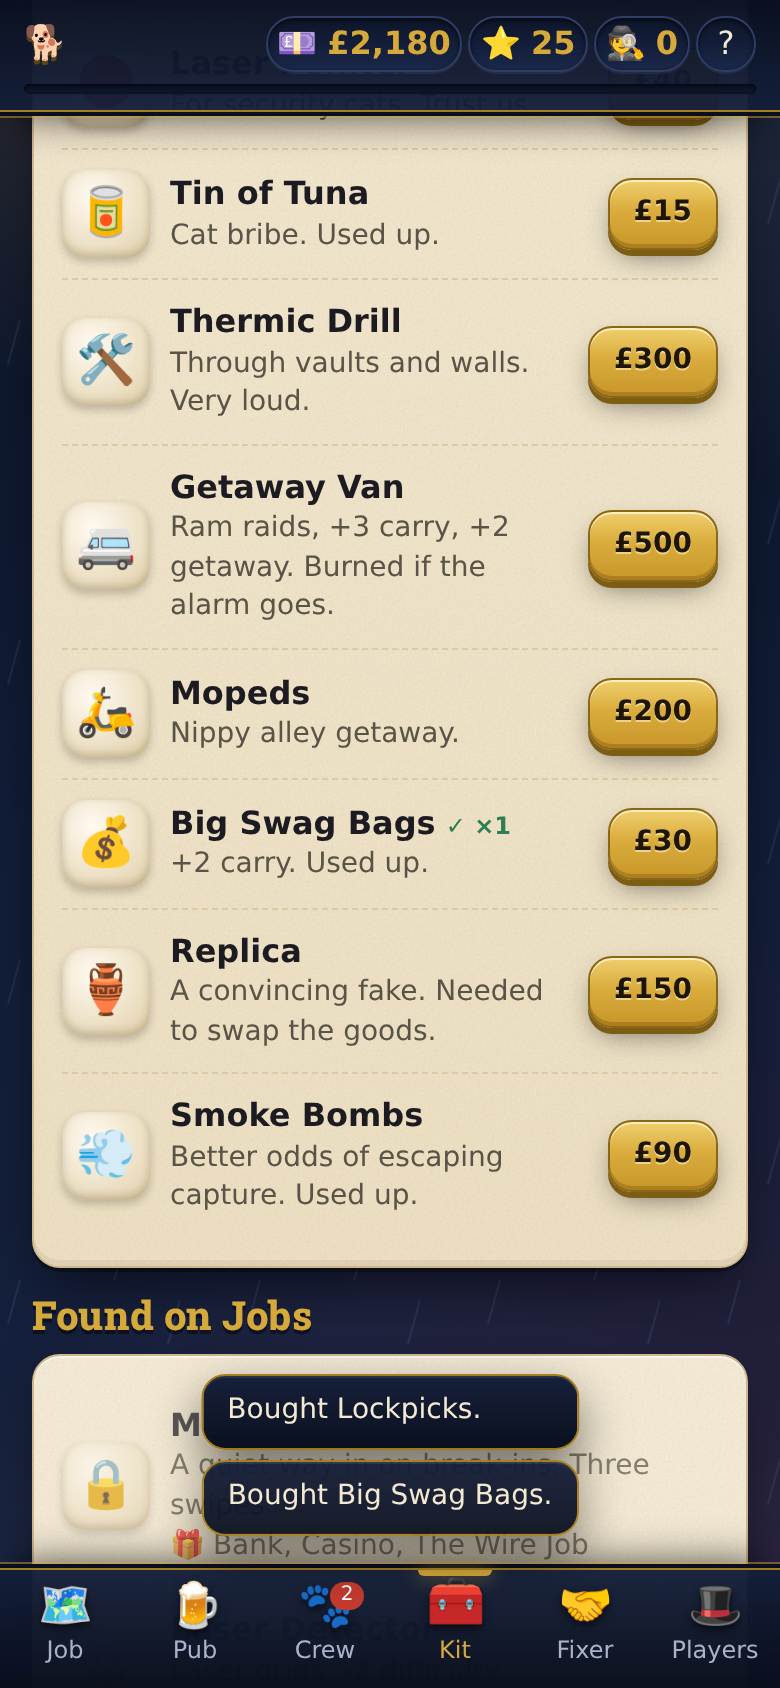
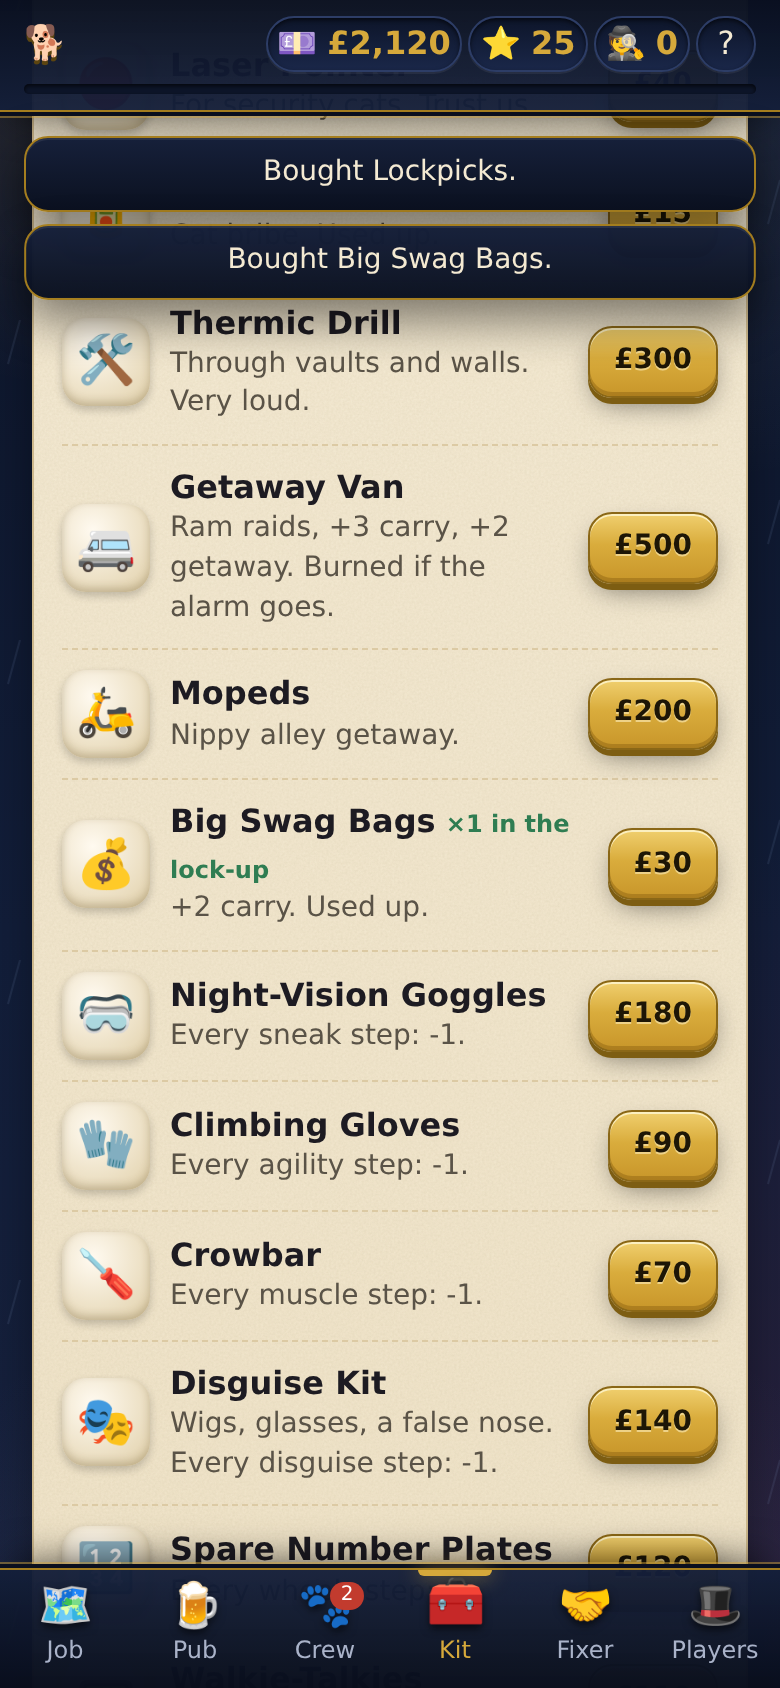
New kit, a lock-up section, and gear that breaks or ends up in evidence
Seven new pieces of kit that each ease a kind of step. The shop lists
what's for sale, then what's in your lock-up, then special kit still to
find. Bought kit that isn't used up can break on a fumbled step (30%) and
is lost with anyone collared (50%); the aftermath says what went.

Claude-Session: https://claude.ai/code/session_0119DQBJUjuLkFW8ZZge45qz

diff --git a/src/data.js b/src/data.js
@@ -352,19 +352,27 @@ export const CODENAMES = ['Mr White', 'Mr Orange', 'Mr Blonde', 'Mr Brown', 'Mr 
 // Kit: bonus = +difficulty relief when the approach lists it; consumable kit is
 // used up when the step runs.
 export const KIT = {
-  lockpicks: { name: 'Lockpicks', price: 80, icon: '🗝', consumable: false, blurb: '+2 on lock work.' },
-  stethoscope: { name: 'Stethoscope', price: 120, icon: '🩺', consumable: false, blurb: '+2 cracking safes by ear.' },
-  laptop: { name: 'Hacker Laptop', price: 250, icon: '💻', consumable: false, blurb: '+2 on cameras and keypads.' },
-  grapple: { name: 'Grappling Rope', price: 100, icon: '🪝', consumable: false, blurb: 'Needed for skylights and roof escapes.' },
+  lockpicks: { name: 'Lockpicks', price: 80, icon: '🗝', consumable: false, blurb: '+2 on lock work.', breaks: 'snap off in the lock' },
+  stethoscope: { name: 'Stethoscope', price: 120, icon: '🩺', consumable: false, blurb: '+2 cracking safes by ear.', breaks: 'gets trodden on' },
+  laptop: { name: 'Hacker Laptop', price: 250, icon: '💻', consumable: false, blurb: '+2 on cameras and keypads.', breaks: 'shows a blue screen and a sad face, for good' },
+  grapple: { name: 'Grappling Rope', price: 100, icon: '🪝', consumable: false, blurb: 'Needed for skylights and roof escapes.', breaks: 'frays clean through' },
   uniforms: { name: 'Staff Uniforms', price: 150, icon: '👔', consumable: true, blurb: 'Needed to pose as staff. Used up.' },
-  slingshot: { name: 'Slingshot', price: 60, icon: '🎯', consumable: false, blurb: '+2 popping camera lenses.' },
+  slingshot: { name: 'Slingshot', price: 60, icon: '🎯', consumable: false, blurb: '+2 popping camera lenses.', breaks: 'twangs in half' },
   squeaky: { name: 'Squeaky Toy', price: 20, icon: '🧸', consumable: true, blurb: 'Guards can\'t resist. Used up.' },
-  laserpointer: { name: 'Laser Pointer', price: 40, icon: '🔴', consumable: false, blurb: 'For security cats. Trust us.' },
+  laserpointer: { name: 'Laser Pointer', price: 40, icon: '🔴', consumable: false, blurb: 'For security cats. Trust us.', breaks: 'gets swatted into a drain' },
   tuna: { name: 'Tin of Tuna', price: 15, icon: '🥫', consumable: true, blurb: 'Cat bribe. Used up.' },
-  drill: { name: 'Thermic Drill', price: 300, icon: '🛠', consumable: false, blurb: 'Through vaults and walls. Very loud.' },
-  van: { name: 'Getaway Van', price: 500, icon: '🚐', consumable: false, blurb: 'Ram raids, +3 carry, +2 getaway. Burned if the alarm goes.' },
-  moped: { name: 'Mopeds', price: 200, icon: '🛵', consumable: false, blurb: 'Nippy alley getaway.' },
+  drill: { name: 'Thermic Drill', price: 300, icon: '🛠', consumable: false, blurb: 'Through vaults and walls. Very loud.', breaks: 'burns out in a cloud of smoke' },
+  van: { name: 'Getaway Van', price: 500, icon: '🚐', consumable: false, blurb: 'Ram raids, +3 carry, +2 getaway. Burned if the alarm goes.', breaks: 'ends up on its roof' },
+  moped: { name: 'Mopeds', price: 200, icon: '🛵', consumable: false, blurb: 'Nippy alley getaway.', breaks: 'end up in a hedge' },
   bags: { name: 'Big Swag Bags', price: 30, icon: '💰', consumable: true, blurb: '+2 carry. Used up.' },
+  // Gear that makes a whole kind of step a little easier (`effect`, as for special kit).
+  goggles: { name: 'Night-Vision Goggles', price: 180, icon: '🥽', consumable: false, effect: { skill: 'sneak', diff: -1 }, blurb: 'Every sneak step: -1.', breaks: 'get sat on' },
+  gloves: { name: 'Climbing Gloves', price: 90, icon: '🧤', consumable: false, effect: { skill: 'agility', diff: -1 }, blurb: 'Every agility step: -1.', breaks: 'tear on a gutter' },
+  crowbar: { name: 'Crowbar', price: 70, icon: '🪛', consumable: false, effect: { skill: 'muscle', diff: -1 }, blurb: 'Every muscle step: -1.', breaks: 'bends double' },
+  disguisekit: { name: 'Disguise Kit', price: 140, icon: '🎭', consumable: false, effect: { skill: 'disguise', diff: -1 }, blurb: 'Wigs, glasses, a false nose. Every disguise step: -1.', breaks: 'loses its false nose down a drain' },
+  plates: { name: 'Spare Number Plates', price: 120, icon: '🔢', consumable: false, effect: { skill: 'wheels', diff: -1 }, blurb: 'Every wheels step: -1.', breaks: 'fall off at the lights' },
+  walkies: { name: 'Walkie-Talkies', price: 110, icon: '📟', consumable: false, effect: { kind: 'exit', diff: -1 }, blurb: '"Over." Getting out: -1.', breaks: 'go to static' },
+  chocs: { name: 'Box of Chocolates', price: 35, icon: '🍫', consumable: true, effect: { skill: 'charm', diff: -2 }, blurb: 'Charm: -2 on one step. Then they\'re eaten.' },
   // ---- Special kit: never for sale. Won on particular jobs (`from`: venues or kinds of
   // job) and kept for later ones. `effect` makes matching steps easier.
   keycard: { name: 'Master Key Card', icon: '💳', price: 0, special: true, consumable: true, uses: 3, from: ['bank', 'casino', 'hack'], blurb: 'A quiet way in on break-ins. Three swipes.' },

diff --git a/src/sim.js b/src/sim.js
@@ -138,6 +138,11 @@ function carryCapacity(crew, kit) {
   return c;
 }
 
+// Chance a piece of kit breaks when the step it's used on goes wrong, and that the
+// Old Bill bag it as evidence when whoever was carrying it is collared.
+export const KIT_BREAK = 0.3;
+export const KIT_EVIDENCE = 0.5;
+
 // Stages on the way out, where a fumble gets dogs nicked rather than just noticed.
 const OUT = ['exit', 'getaway'];
 // Fumbling these can cost a dog for good.
@@ -209,6 +214,8 @@ export function simulate(state, job, rng) {
     dropped: [],
     kitLeft: { ...state.kit },
     kitUsed: {},
+    kitLost: [], // { kit, why: 'broke' | 'evidence' }
+    carried: {}, // dog id -> kit they used tonight (bagged as evidence if they're collared)
     luckUsed: new Set(),
     lookoutUsed: false,
     nextBonus: 0,
@@ -242,6 +249,12 @@ export function simulate(state, job, rng) {
   const useKit = (id) => {
     ctx.kitLeft[id]--;
     ctx.kitUsed[id] = (ctx.kitUsed[id] || 0) + 1;
+  };
+  // Bought kit that isn't used up wears out: it can break on a fumbled step, and
+  // whoever gets collared loses what they were carrying.
+  const loseKit = (k, why) => {
+    useKit(k);
+    ctx.kitLost.push({ kit: k, why });
   };
   const lootName = (id) => lootItem(job, id).name;
 
@@ -279,8 +292,13 @@ export function simulate(state, job, rng) {
     const has = (q) => dog.quirks.includes(q);
     if (a.needKit && KIT[a.needKit].consumable) useKit(a.needKit);
     ctx.acted.add(dog.id);
+    // The kit this step is done with: what it needs, what helps it, and gear that eases this kind of step.
+    const gear = [...new Set([a.needKit, a.kitBonus, ...specialKitFor(ctx.kitLeft, job, stage, a)])].filter((k) => k && ctx.kitLeft[k] > 0);
     const o = odds(state, job, stage, approachId, dog, { alarm: ctx.alarm, crew: active(), kitLeft: ctx.kitLeft, extra: (extra || 0) + (ctx.coppers ? 2 : 0), bonus: ctx.nextBonus });
     ctx.nextBonus = 0;
+    for (const k of gear) if (KIT[k].consumable && KIT[k].effect) useKit(k); // the chocolates get eaten
+    const wears = gear.filter((k) => !KIT[k].consumable && !KIT[k].special);
+    if (wears.length) ctx.carried[dog.id] = [...new Set([...(ctx.carried[dog.id] || []), ...wears])];
     let p = o.p;
     if (tag === 'improv' && dog.role?.kind === 'wildcard') p = clamp(p + 0.05 * dog.role.level, 0.03, 0.97); // made for making it up
     if (tag === 'improv' && has('backup')) { p = clamp(p + 0.15, 0.03, 0.97); learn(dog, 'quirks', 'backup'); }
@@ -342,6 +360,13 @@ export function simulate(state, job, rng) {
       (ctx.practised[dog.id] ||= []).push(a.skill);
     } else ctx.lastFail = { dog, approachId, margin: roll - p };
     beat({ kind: ok ? 'ok' : 'fail', stage: stage.id, dog: dog.id, approach: approachId, tag, p, roll, text, line });
+    if (!ok) {
+      for (const k of wears) {
+        if (!(ctx.kitLeft[k] > 0) || !rng.chance(KIT_BREAK)) continue;
+        loseKit(k, 'broke');
+        beat({ kind: 'chaos', stage: stage.id, dog: dog.id, text: `${KIT[k].icon} The ${KIT[k].name.toLowerCase()} ${KIT[k].breaks}.` });
+      }
+    }
     addAlarm(noise, stage.id);
     return ok;
   };
@@ -421,6 +446,7 @@ export function simulate(state, job, rng) {
       return true;
     }
     ctx.captured.push({ id: dog.id, stage: stageId });
+    for (const k of ctx.carried[dog.id] || []) if (ctx.kitLeft[k] > 0 && rng.chance(KIT_EVIDENCE)) loseKit(k, 'evidence');
     beat({ kind: 'caught', stage: stageId, dog: dog.id, text: `${shortName(dog)} is collared by the Old Bill!`, line: say(dog, 'caught') });
     dropLoot(stageId, 'goes with them into the police van');
     return rescue(dog, stageId);
@@ -796,6 +822,7 @@ export function simulate(state, job, rng) {
     rescues: ctx.rescues,
     crew: crewIds,
     kitUsed: ctx.kitUsed,
+    kitLost: ctx.kitLost,
     learned: ctx.learned,
     practised: ctx.practised,
     heatGain,
@@ -811,7 +838,7 @@ function skillTalent(t, skill) {
 export function blankResult(crew, extra = {}) {
   return {
     beats: [], outcome: 'clean', secured: [], dropped: [], alarmMax: 0, clues: 0, coppers: false, pearShaped: false, aborted: false, swap: false,
-    captured: [], rescues: [], lost: [], hurt: [], runners: [], exposed: [], tipped: [], escaped: crew.slice(), crew: crew.slice(), kitUsed: {}, learned: {}, practised: {}, heatGain: 0,
+    captured: [], rescues: [], lost: [], hurt: [], runners: [], exposed: [], tipped: [], escaped: crew.slice(), crew: crew.slice(), kitUsed: {}, kitLost: [], learned: {}, practised: {}, heatGain: 0,
     ...extra,
   };
 }

diff --git a/src/ui.js b/src/ui.js
@@ -499,19 +499,24 @@ const fromText = (k) => k.from.map((f) => VENUE_LABELS[f] || JOB_TYPES[f]?.label
 
 function kitScreen(G) {
   const s = G.state;
-  const specials = Object.entries(KIT).filter(([, k]) => k.special);
+  const own = (id) => s.kit[id] || 0;
+  const all = Object.entries(KIT);
+  const row = (id, k, right, extra = '') => `<div class="kit"><div class="ico">${k.icon}</div><div class="grow"><b>${esc(k.name)}</b>${extra}<div class="muted">${esc(k.blurb)}</div></div>${right}</div>`;
+  // For sale: anything you haven't got, and the things that get used up.
+  const forSale = all.filter(([id, k]) => !k.special && (k.consumable || !own(id)));
+  const sale = forSale.map(([id, k]) => row(id, k, `<button class="btn small" data-act="buy" data-kit="${id}" ${s.cash >= k.price ? '' : 'disabled'}>${money(k.price)}</button>`, k.consumable && own(id) ? ` <span class="own">×${own(id)} in the lock-up</span>` : '')).join('');
+  // The lock-up: everything you own, bought or won.
+  const mine = all.filter(([id]) => own(id) > 0);
+  const lockup = mine.map(([id, k]) => row(id, k, '', ` <span class="own">${k.consumable || k.uses ? `×${own(id)}` : k.special ? 'won' : '✓'}</span>`)).join('');
+  const wears = mine.some(([, k]) => !k.consumable && !k.special);
+  // Special kit you haven't won yet, and where to find it.
+  const locked = all.filter(([id, k]) => k.special && !own(id));
   return `<h2>Kit Shop</h2>
-  <section class="card">${Object.entries(KIT).filter(([, k]) => !k.special).map(([id, k]) => {
-    const own = s.kit[id] || 0;
-    const canBuy = s.cash >= k.price && (k.consumable || !own);
-    return `<div class="kit"><div class="ico">${k.icon}</div><div class="grow"><b>${esc(k.name)}</b> ${own ? `<span class="own">✓ ${k.consumable ? `×${own}` : 'owned'}</span>` : ''}<div class="muted">${esc(k.blurb)}</div></div>
-      <button class="btn small" data-act="buy" data-kit="${id}" ${canBuy ? '' : 'disabled'}>${money(k.price)}</button></div>`;
-  }).join('')}</section>
-  <h2 class="mt">Found on Jobs</h2>
-  <section class="card">${specials.map(([id, k]) => {
-    const own = s.kit[id] || 0;
-    return `<div class="kit ${own ? '' : 'locked'}"><div class="ico">${own ? k.icon : '🔒'}</div><div class="grow"><b>${esc(k.name)}</b> ${own ? `<span class="own">✓ ${k.uses ? `×${own}` : 'yours'}</span>` : ''}<div class="muted">${esc(k.blurb)}</div>${own ? '' : `<div class="muted">🎁 ${esc(fromText(k))}</div>`}</div></div>`;
-  }).join('')}</section>`;
+  <section class="card">${sale}</section>
+  <h2 class="mt">In Your Lock-up</h2>
+  <section class="card lockup">${lockup || '<p class="muted">Nothing yet.</p>'}${wears ? '<p class="muted small-note">Gear can break when a step goes wrong, and the Old Bill keep whatever they find on anyone they collar.</p>' : ''}</section>
+  ${locked.length ? `<h2 class="mt">Found on Jobs</h2>
+  <section class="card">${locked.map(([, k]) => `<div class="kit locked"><div class="ico">🔒</div><div class="grow"><b>${esc(k.name)}</b><div class="muted">${esc(k.blurb)}</div><div class="muted">🎁 ${esc(fromText(k))}</div></div></div>`).join('')}</section>` : ''}`;
 }
 
 function fixerScreen(G) {
@@ -807,6 +812,7 @@ function aftermathScreen(G) {
   for (const id of [...r.exposed, ...r.tipped]) lines.push(`👮 <b>${esc(shortName(s.dogs[id]))}</b> was an undercover copper!`);
   for (const t of a.bonds || []) lines.push(esc(t));
   if (a.prize) lines.push(`🎁 Kept: ${KIT[a.prize].icon} <b>${esc(KIT[a.prize].name)}</b>. ${esc(KIT[a.prize].blurb)}`);
+  if (r.kitLost?.length) lines.push(`🔧 Lost on the job: ${r.kitLost.map((x) => `${KIT[x.kit].icon} <b>${esc(KIT[x.kit].name)}</b> (${x.why === 'broke' ? 'broken' : 'taken as evidence'})`).join(', ')}. The shop has more.`);
   for (const p of a.promoted || []) {
     const d = s.dogs[p.id];
     lines.push(`🌟 <b>${esc(shortName(d))}</b> has made a name for themselves: <span class="rar ${p.to}">${RARITY[p.to].icon} ${RARITY[p.to].label}</span> ✨ ${esc(SIGNATURES[d.signature].name)}`);

diff --git a/src/panes.js b/src/panes.js
@@ -133,7 +133,7 @@ const HELP = [
   ['⭐ Reputation', `Your score is your track record plus how generous you are with the crew's cut. The bigger your name, the harder it grows: good jobs add less, and people expect more. Separately, the way you treat people makes you soft or hard: hard masterminds are feared (fewer runners and grasses) but harder to love; soft ones are liked, and easier to cross. Tap ⭐ to see where you stand.`],
   ['🐾 Crew', `Each dog has skills (only the ones you've seen are shown), talents and quirks. Work together and you learn more; get on and they get better, even rare or legendary. 👑 Leaders steady everyone; 🃏 wildcards bring chaos, good and bad. ★ Stars drift through town with secret moves.`],
   ['🤝 Crew chemistry', `Crew who pull off jobs together get closer; bungled steps and busts sour things. 💚 Friends lift each other's odds, 💢 people who can't stand each other drag them down (a leader takes the edge off), and the plan shows who's who. When someone's collared, a brave mate who likes them may go back for them.`],
-  ['📋 Planning', `Casing finds intel and hidden hazards: a good nose smells things out, a hacker finds the systems, a sneak watches the patrols. Get spotted and security goes on alert. The odds on each step are shown for skills you know. Kit and intel open new ways through.`],
+  ['📋 Planning', `Casing finds intel and hidden hazards: a good nose smells things out, a hacker finds the systems, a sneak watches the patrols. Get spotted and security goes on alert. The odds on each step are shown for skills you know. Kit and intel open new ways through. Gear wears out: it can break on a botched step, and anyone collared loses what they were carrying.`],
   ['💥 When it goes wrong', `A fumbled step goes pear-shaped: someone improvises, alarms ring, the Old Bill may arrive. Crew can get nicked, end up on the farm, do a runner, or turn out to be undercover coppers.`],
   ['🕵 The Inspector', `He makes a move between jobs: coppers planted in the pub, stakeouts, tips that are really setups, crew pulled in for questioning, regulars turned into grasses, raids. He also keeps a file on your tricks: use the same one job after job and security will be ready for it. Surveil strangers, case tips before you trust them, and mix it up.`],
   ['🦹 Rivals', `Other crews work this town too. The Jack Russell Gang make trouble: tipping off security, nicking kit, turning up on your jobs. Dandy Dan leaves notes and bets you can't pull a job. Rat them out (it costs rep), set them up, or rob them. And someone called the Grey Ghost is watching: leave your calling card on good, quiet jobs and you might win them over.`],

diff --git a/styles.css b/styles.css
@@ -279,6 +279,7 @@ p { margin: 0 0 8px; }
 .plan-step.flash { animation: flash 1.6s ease-out; }
 @keyframes flash { 0%, 30% { box-shadow: var(--shadow), 0 0 0 3px var(--brass), 0 0 24px rgba(214, 169, 59, .8); } }
 .kit.locked { opacity: .7; }
+.lockup .small-note { font-size: 13px; margin: 8px 0 0; }
 .retire-btn { margin: 4px 0 12px; }
 .retire-note { display: flex; justify-content: space-between; gap: 8px; width: 100%; margin-bottom: 12px; padding: 10px 12px; border-radius: 12px; border: 2px solid var(--brass); background: #fbf1d6; color: var(--ink); font: inherit; font-weight: 700; text-align: left; cursor: pointer; }
 .retire-note span { white-space: nowrap; }

diff --git a/src/version.js b/src/version.js
@@ -1,3 +1,3 @@
 // The game's version, shown in the help panel. Keep package.json's "version" in step
 // (tests/version.test.mjs checks). Bump it with each release to main.
-export const VERSION = '0.19.0';
+export const VERSION = '0.20.0';

diff --git a/notes/progress.md b/notes/progress.md
@@ -92,7 +92,16 @@ report 0 (DOM/SVG renderer), `renderer` is the WebGL renderer string, `contextLo
 - Job board venue illustrations; title skyline; blueprint with corridors, walked route, pulsing current room, red alarm wash, siren lights when the police arrive, and a drawing title block.
 - Before/after captures: `notes/captures/before-gfx/` vs `notes/captures/`.
 
-## More films: wiretaps, black boxes, little cars, hard-nosed coppers, the usual suspects (latest, 0.19.0)
+## New kit, the lock-up, and gear that wears out (latest, 0.20.0)
+
+- **New kit** (data.js `KIT`), each easing a whole kind of step through `effect` (the same mechanism as special kit; `specialKitFor` already handled any kit with an effect): Night-Vision Goggles (sneak -1, £180), Climbing Gloves (agility -1, £90), Crowbar (muscle -1, £70), Disguise Kit (disguise -1, £140), Spare Number Plates (wheels -1, £120), Walkie-Talkies (getting out -1, £110), Box of Chocolates (charm -2 on one step, eaten, £35).
+- **Kit screen:** For sale (anything not owned, plus the used-up kind with "×N in the lock-up"), then **In Your Lock-up** (everything owned, bought or won, with a note on wear), then **Found on Jobs** (special kit not yet won, and where).
+- **Wear:** in `sim.attempt`, the kit a step uses (needKit, kitBonus, effect gear) is noted against the dog. A fumbled step breaks each piece of bought, non-consumable kit used on it with `KIT_BREAK` 30% (a chaos beat: "🛠 The thermic drill burns out in a cloud of smoke."); a dog collared loses what they carried with `KIT_EVIDENCE` 50%. Won (special) kit never breaks. Losses go through `useKit`, so `resolveHeist` takes them off; the aftermath lists them ("🔧 Lost on the job: 🗝 Lockpicks (broken)."). Every buyable non-consumable has a `breaks` line.
+- **How often (smart bot, 200 careers × 12 jobs):** owned kit is lost on 8–13% of the jobs it's owned for (before: only the van burning or a raid), so a piece lasts about ten jobs. Balance (150 careers): grades unchanged; game-overs within the RNG noise band measured in 0.19.0.
+- **Tests:** tests/gear.test.mjs (4). Smoke 1 checks bought kit moves to the lock-up and the used-up kind stays on sale.
+- **Not done:** the balance bot doesn't buy the new gear.
+
+## More films: wiretaps, black boxes, little cars, hard-nosed coppers, the usual suspects (0.19.0)
 
 - **Kibble is for closers:** the game-over line, the Closer's catchphrase, two grade verdicts and a job name (was coffee / biscuits).
 - **Storylines:** drama arcs `tape` (a wiretap: "He'd grass us if he got the chance", and which word it leans on; forget it and the floorboards come up, saxophone in the wreckage) and `box` (a little black box that opens anything; sell it to an outfit, hand it to the man in the grey suit, or keep it: "My voice is my passport. Verify me." and a promotion; only crew with Tech 3+ find one). Inspector moves `lineup` (the usual suspects: up to five regulars in a line-up, "Hand over the keys, you dozy mutt", a night in the same cell, +15 bond each pair) and `strip` (your getaway van taken apart to the last bolt; rebuild for £250 or lose it). The tail scene gains "Lead him a merry dance": a sneak loses him on the train and waves goodbye through the window. Keeping quiet under questioning sometimes becomes a Keyser Collie yarn read off the noticeboard, limp straightening by the corner. The stakeout is now stamping feet in the cold while the manager eats a four-course dinner.
